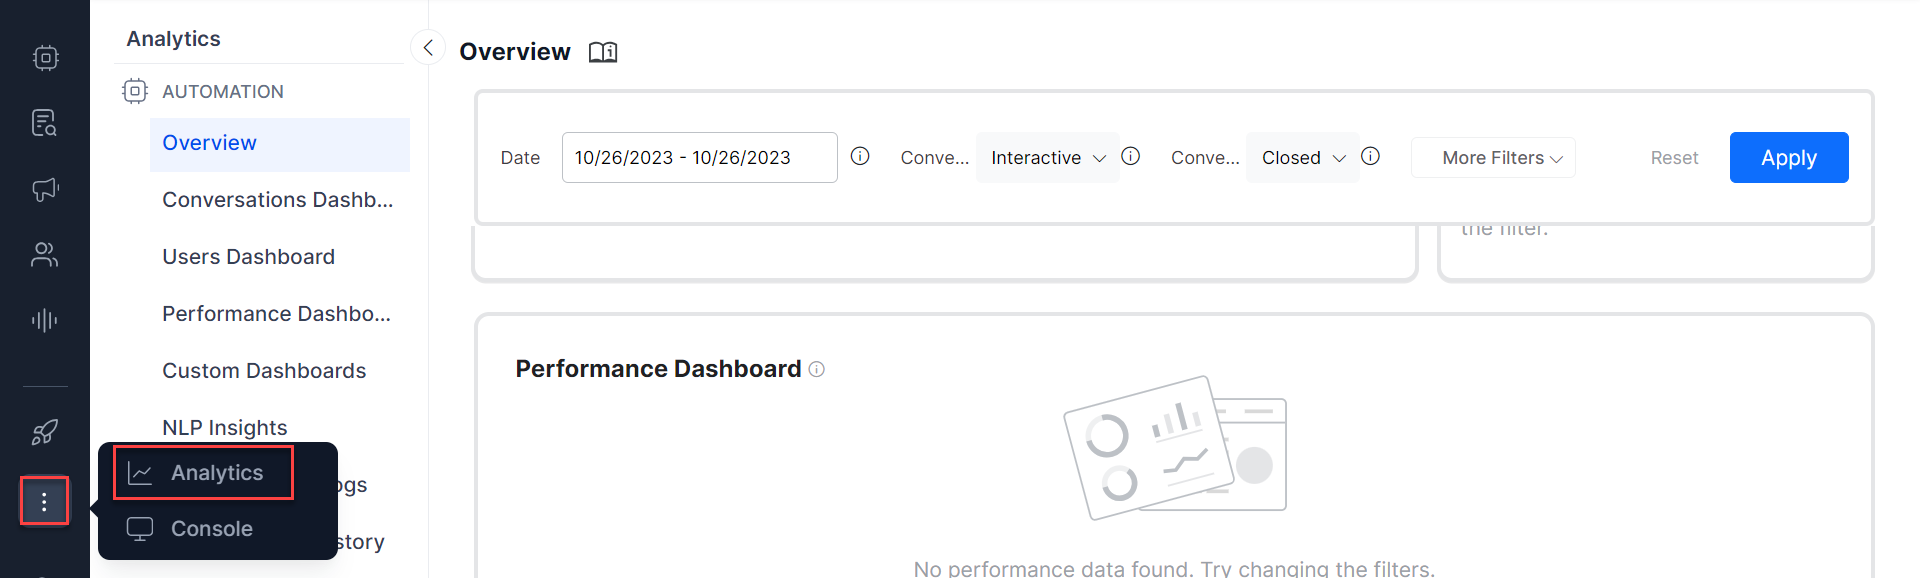
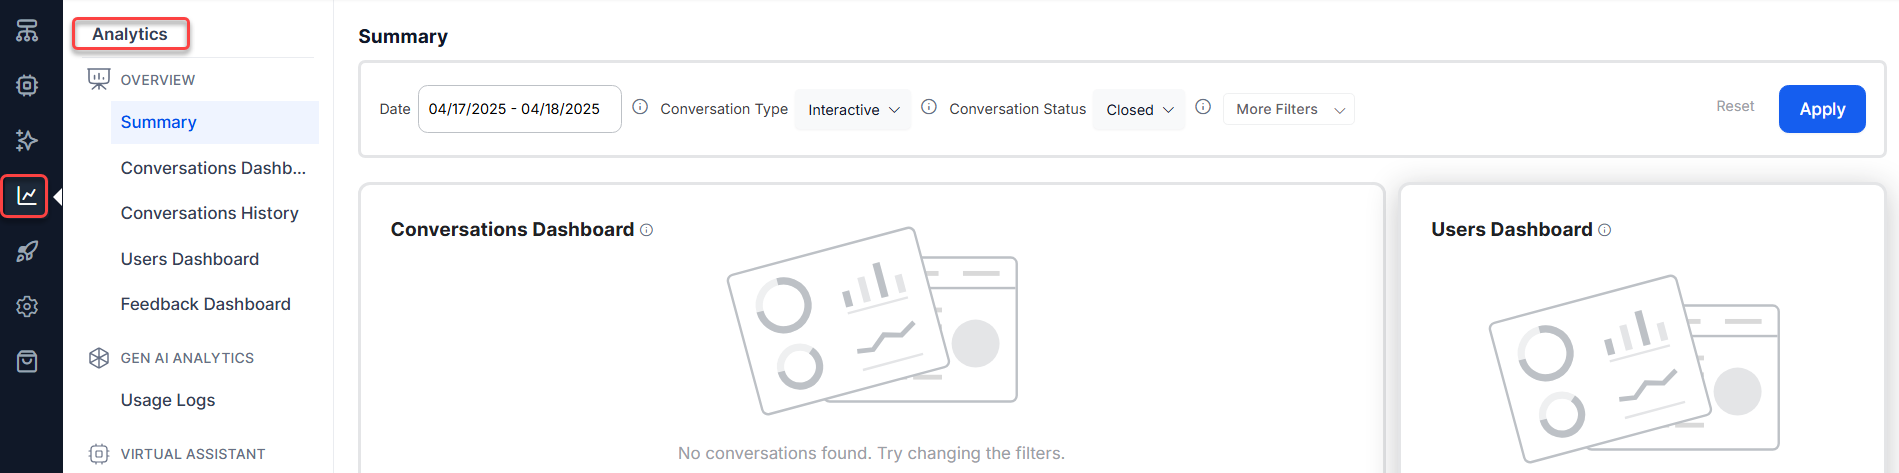
updated the doc "Summary Dashboard"

diff --git a/docs/xo/analytics/overview/summary-dashboard.md b/docs/xo/analytics/overview/summary-dashboard.md
@@ -5,7 +5,7 @@ The Summary dashboard gives a snapshot of the Virtual Assistant’s conversation
 **To view the Summary dashboard, follow the steps**: 
 
 
-1. Click the three dots on the left navigation pane and then click **Analytics**. The Analytics panel is displayed with the list of reports.
+1. Click **Analytics** on the left navigation pane. The Analytics panel is displayed with the list of reports.
 
     <img src="../images/overview-dashboard.png" alt="Overview Dashboard" title="Overview Dashboard" style="border: 1px solid gray; zoom:80%;">
     
@@ -17,18 +17,14 @@ The Summary dashboard gives a snapshot of the Virtual Assistant’s conversation
 
     The Summary/Overview dashboard is available only post-9.3 release, i.e. post-July 24, 2022.
 
-
 ### Summary Dashboard Components
 
-Once users start interacting with your assistant, you can view the following details in the Overview dashboard:
-
-
+Once users start interacting with your assistant, you can view the following details in the Summary dashboard:
 
 * **Conversations Dashboard**: Displays the key virtual assistant metrics and insights into the usage and containment of the conversations. You can view the conversations’ trend with the breakup of self-service, drop-off, and agent transfers. Learn more.
 * **Users Dashboard**: Displays trend-based analytics data on new and returning users. Learn more.
 * **Performance Dashboard**: Provides insights on the NLP and execution performance of the virtual assistants including intent identification rate, goal completion rate, service, and script execution rates. Learn more.
 
-
 ### Filter Criteria
 
-The Virtual Assistants Overview data can be viewed based on specific filter criteria that can be selected. Learn more.
+The Virtual Assistants Overview data can be viewed based on specific filter criteria that can be selected. [Learn more](../dashboard-filters.md#filter-criteria-descriptions).
